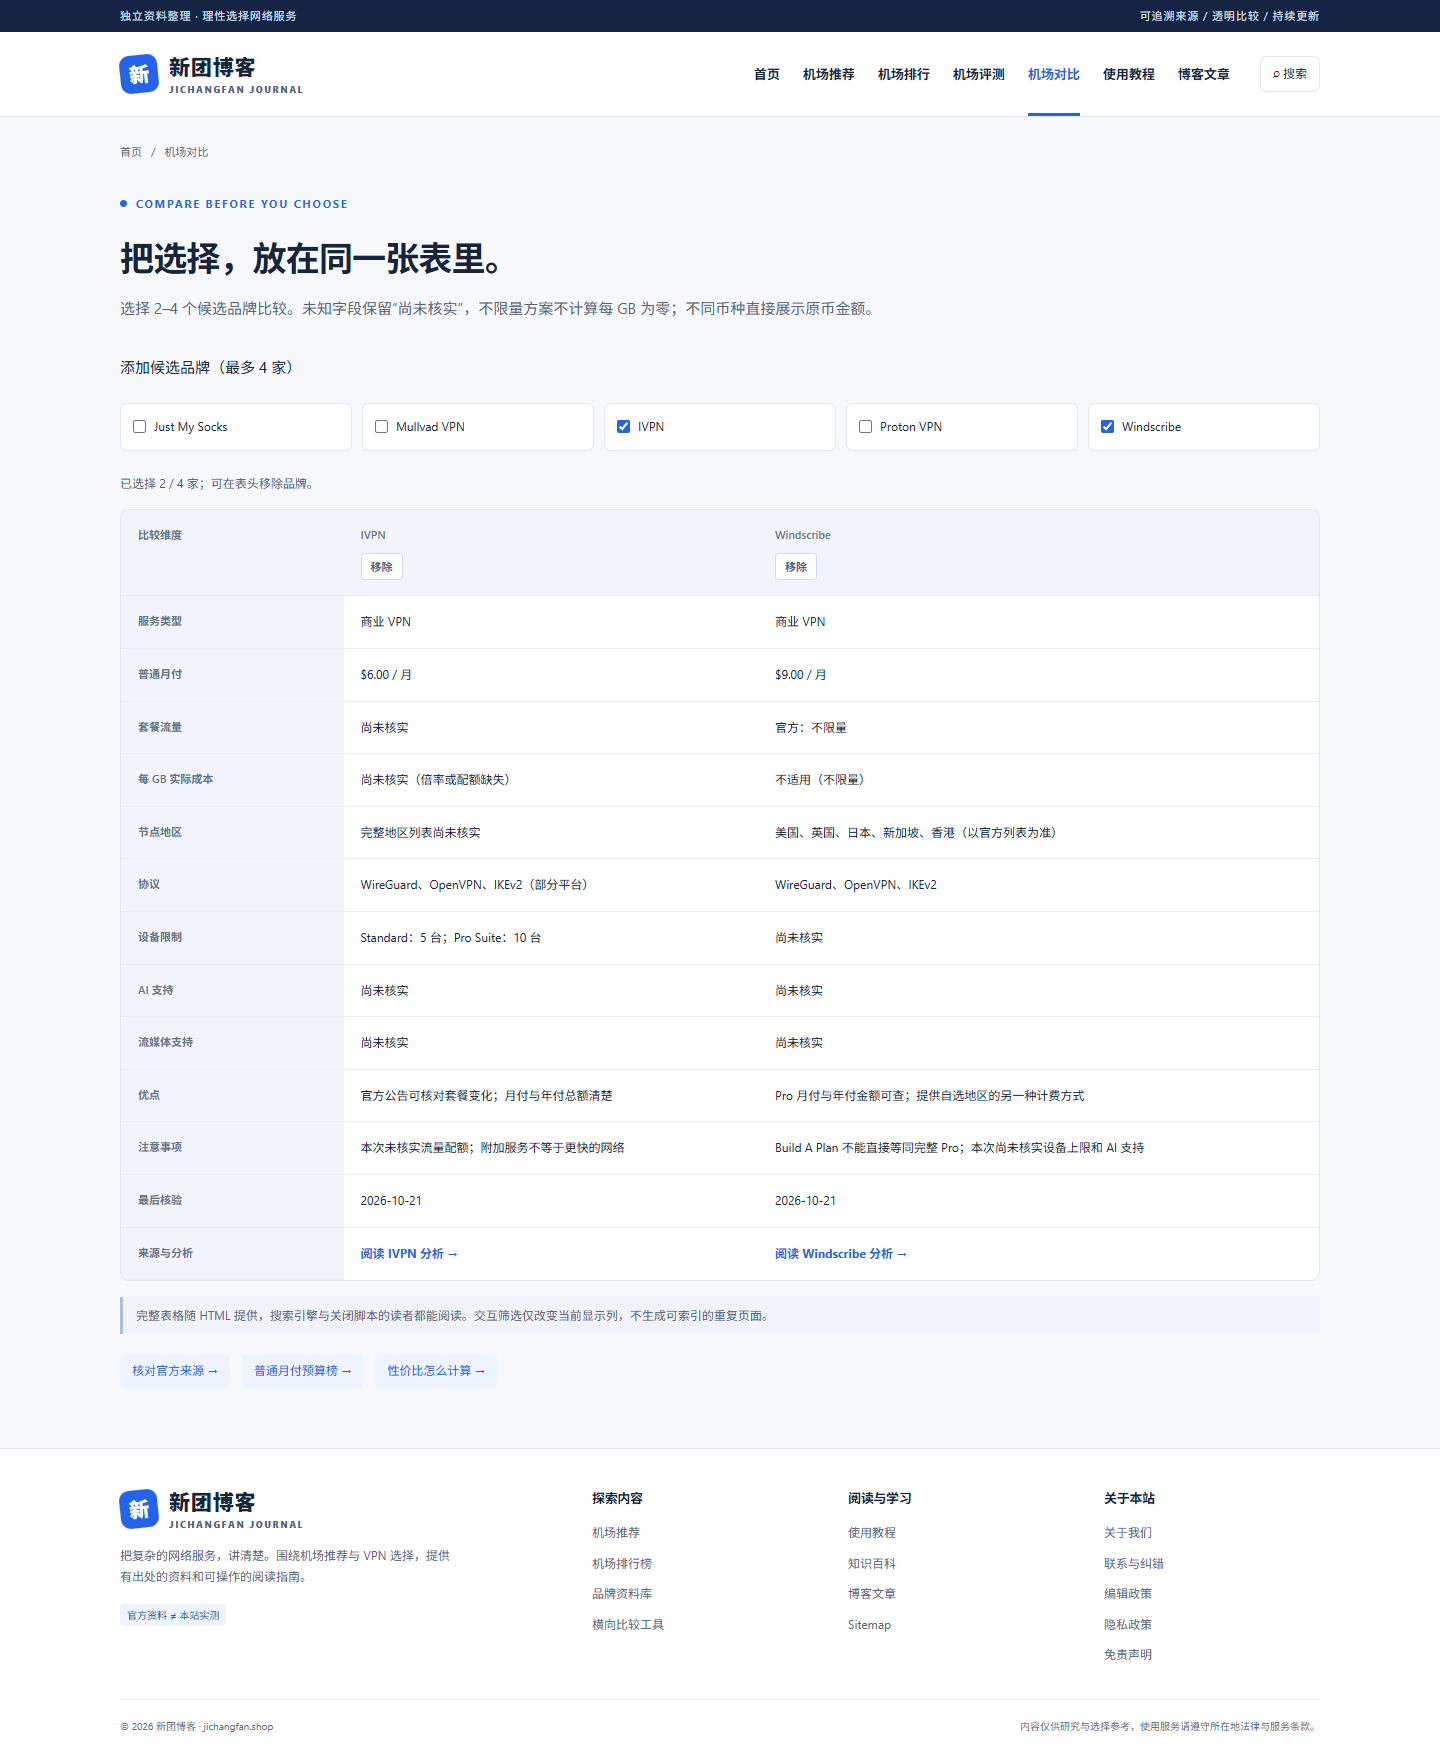
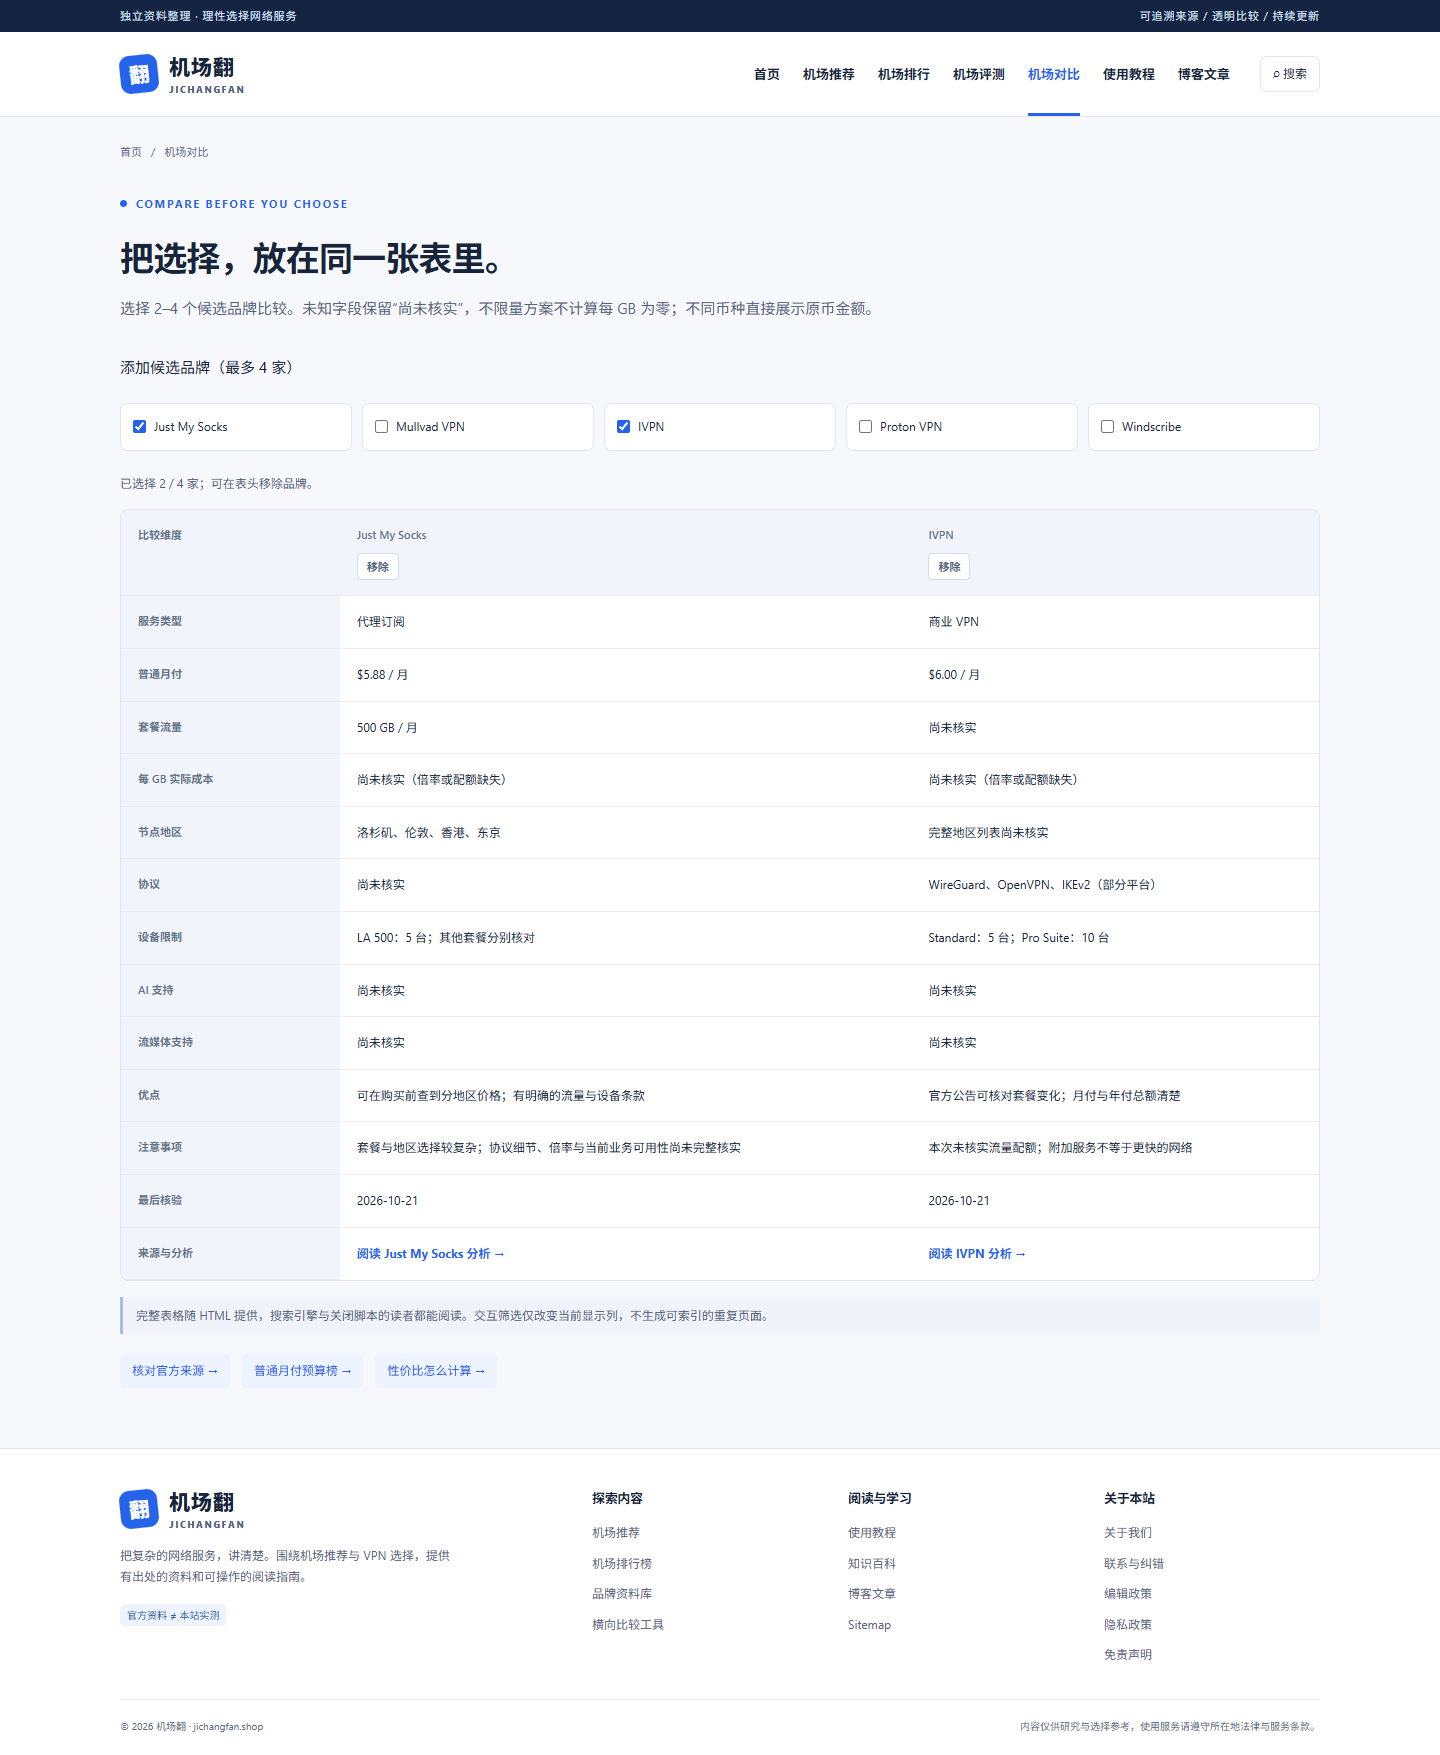
fix: correct site brand to Jichangfan

diff --git a/src/data/site.ts b/src/data/site.ts
@@ -1,2 +1,2 @@
-export const site = {name: '新团博客', url: 'https://jichangfan.shop', domain: 'jichangfan.shop', date: '2026-10-21', repo: 'https://github.com/yinxingren588/jichangfan.shop', description: '从机场推荐到 VPN 选择，用可追溯资料比较价格、机场节点与使用门槛。'};
+export const site = {name: '机场翻', url: 'https://jichangfan.shop', domain: 'jichangfan.shop', date: '2026-10-21', repo: 'https://github.com/yinxingren588/jichangfan.shop', description: '从机场推荐到 VPN 选择，用可追溯资料比较价格、机场节点与使用门槛。'};
 export const nav = [['首页','/'],['机场推荐','/recommend/'],['机场排行','/ranking/'],['机场评测','/review/'],['机场对比','/compare/'],['使用教程','/guides/'],['博客文章','/blog/']];

diff --git a/docs/final-audit.md b/docs/final-audit.md
@@ -1,4 +1,6 @@
-# 新团博客最终验收报告
+# 机场翻最终验收报告
+
+品牌修正说明：网站正式名称为“机场翻”，英文 JICHANGFAN，域名 jichangfan.shop。2026-10-21 已更新全部 51 页品牌标识、标题、Schema、favicon、分享图片和预览图，重建、SEO 与链接检查通过，专项记录见 audit/brand-correction.json。文件保存在用户原先指定的“新团博客/jichangfan.shop”目录。此前 Lighthouse 原始报告保留历史构建证据，品牌修正没有重新测量性能分数。
 
 验收日：2026-10-21（Asia/Shanghai）。正式域名：https://jichangfan.shop 。源码仓库：https://github.com/yinxingren588/jichangfan.shop 。
 

diff --git a/README.md b/README.md
@@ -1,4 +1,4 @@
-# 新团博客 · jichangfan.shop
+# 机场翻 · jichangfan.shop
 
 完整 Astro 静态中文博客。网站源码、内容、构建产物、SEO 配置、IndexNow、自动验收和部署说明均在本目录。
 
